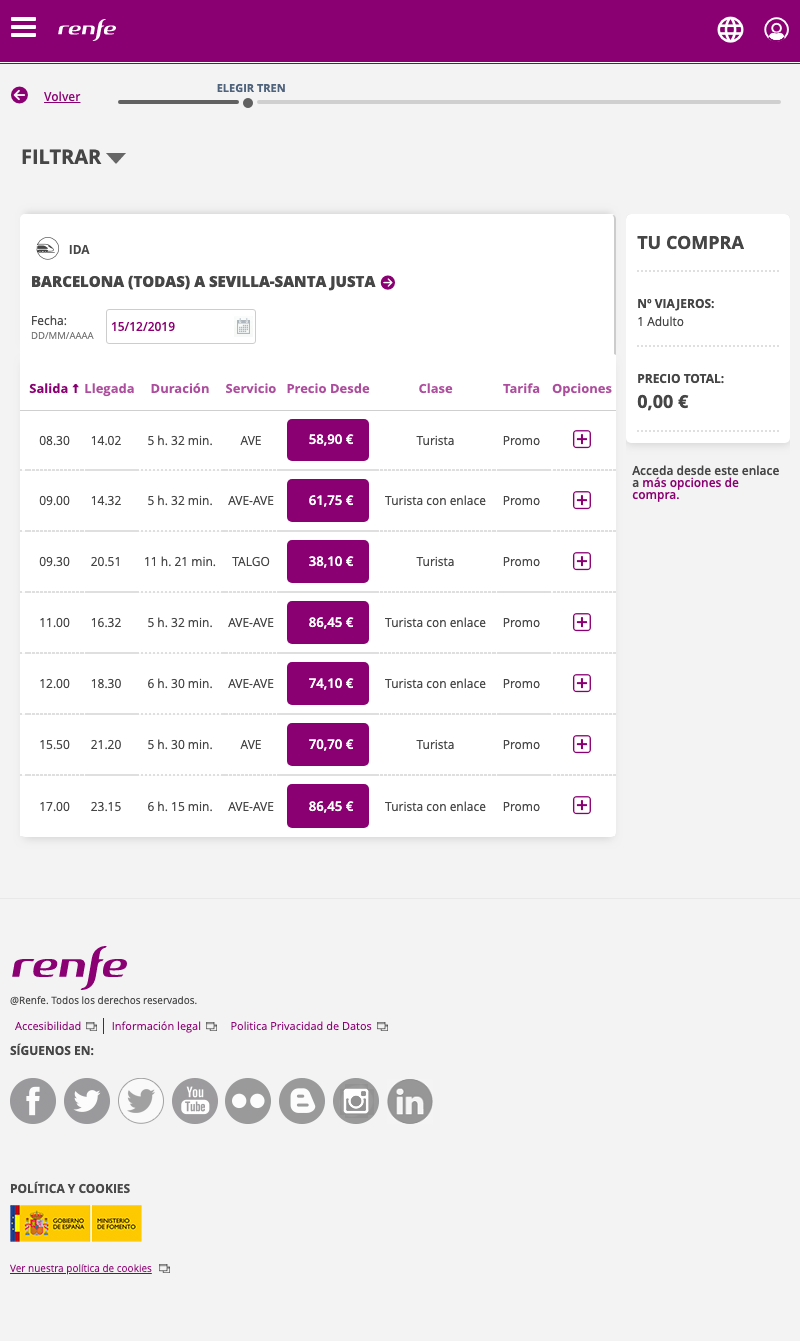
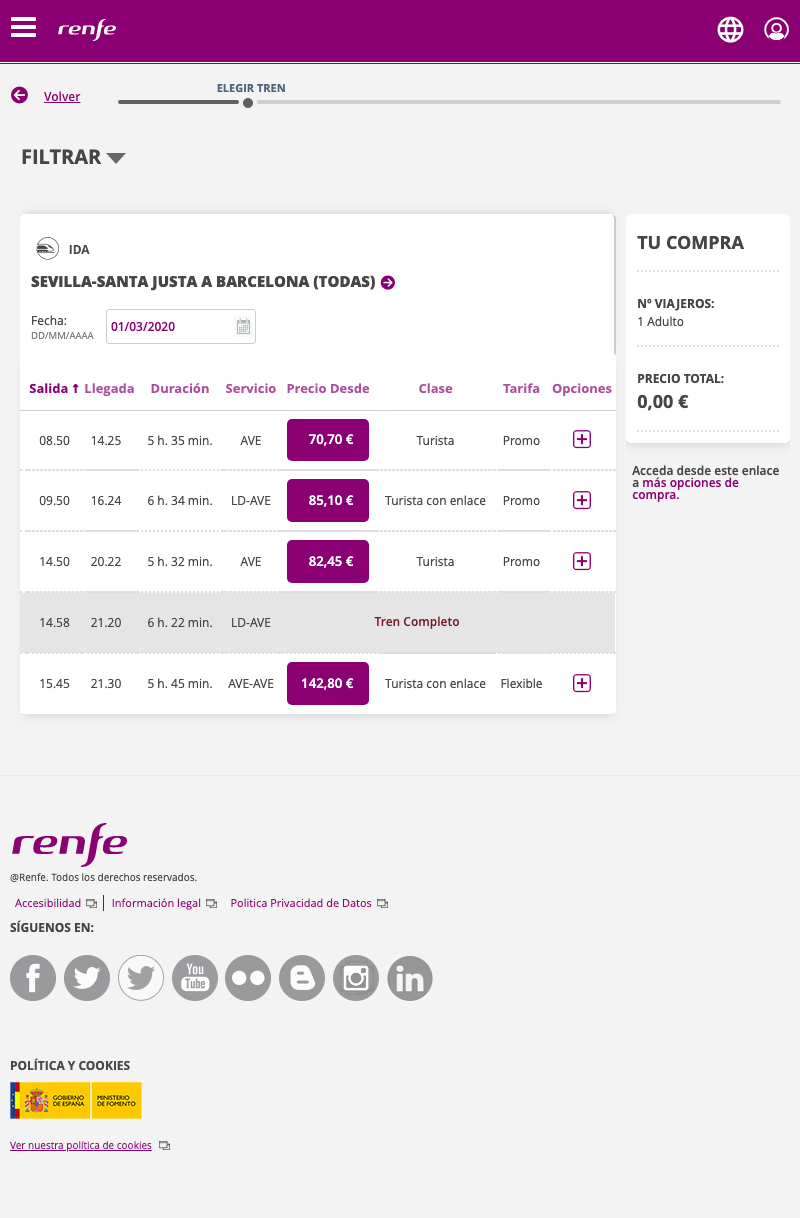
Update target dates

Changed region(s): [[0.0, 0.0, 1.0, 0.624], [0.0, 0.6864, 0.5625, 0.8424], [0.0, 0.8736, 0.2188, 0.9672]]

diff --git a/scraper.js b/scraper.js
@@ -28,13 +28,13 @@ async function checkIfTicketsAvailable() {
 
   // Set Origin
   await page.click(originSelector);
-  await page.keyboard.type("Barcelona");
+  await page.keyboard.type("Sevilla");
   await page.waitFor(500);
   page.keyboard.press("Enter");
 
   // Set Destination
   await page.click(destinationSelector);
-  await page.keyboard.type("Sevilla");
+  await page.keyboard.type("Barcelona");
   await page.waitFor(500);
   page.keyboard.press("Enter");
 
@@ -43,7 +43,7 @@ async function checkIfTicketsAvailable() {
 
   await searchInput.click({ clickCount: 3 });
   await searchInput.press("Backspace");
-  await page.keyboard.type("16/12/2019");
+  await page.keyboard.type("02/03/2020");
   await page.waitFor(500);
   page.keyboard.press("Enter");
 
